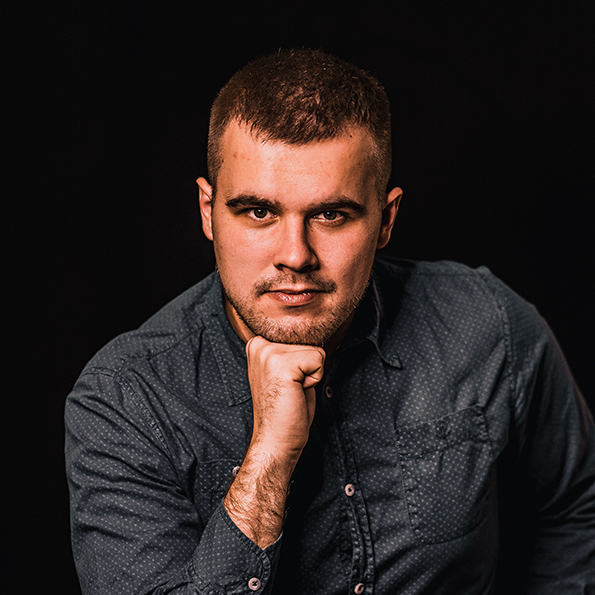
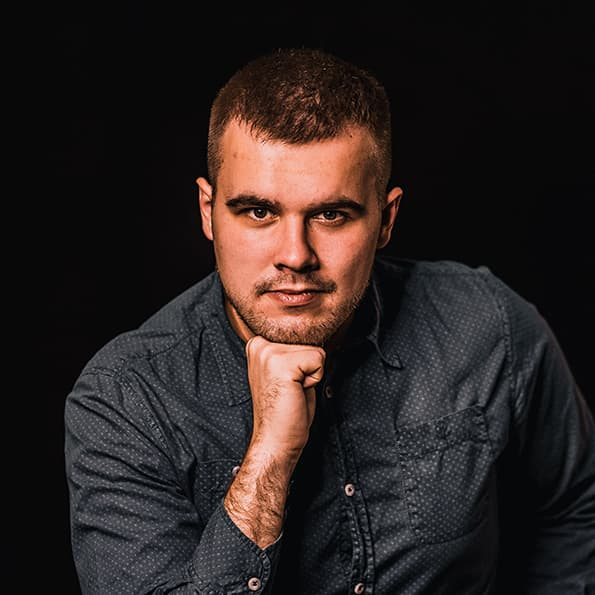
pp

diff --git a/index.html b/index.html
@@ -47,14 +47,14 @@
                <div class="row d_flex">
                   <div class="col-sm-3">
                      <div class="logo">
-                        <a href="index.html"><img src="images/logo.png" /></a>
+                        <a href="index.html"><img src="images/logo.webp" /></a>
                      </div>
                   </div>
                   <div class="col-sm-9">
                      <ul class="email text_align_right">
                         <li><a href="Javascript:void(0)"><i class="fa fa-user" aria-hidden="true"></i></a></li>
                         <li><a href="Javascript:void(0)"><i class="fa fa-search" aria-hidden="true"></i></a></li>
-                        <li> <button class="openbtn" onclick="openNav()"><img src="images/menu_btn.png"></button></li>
+                        <li> <button class="openbtn" onclick="openNav()"><img src="images/menu_btn.webp"></button></li>
                      </ul>
                   </div>
                </div>
@@ -68,7 +68,7 @@
             <div class="row">
                <div class="col-md-12">
                   <div class="club">
-                     <figure><img class="sm_n0" src="images/bbnner.png"> <img class="tes_n0" src="images/banner1.jpg"> </figure>
+                     <figure><img class="sm_n0" src="images/bbnner.webp"> <img class="tes_n0" src="images/banner1.jpg"> </figure>
                      <div class="poa_t">
                         <h1>Sports club</h1>
                         <p>It is a long established fact that a reader will be distracted by the readable content of a</p>
@@ -95,7 +95,7 @@
                               <div class="carousel-caption relative">
                                  <div class="bluid">
                                     <div class="foot_img">
-                                       <figure><img src="images/foot.png" alt="#"/></figure>
+                                       <figure><img src="images/foot.webp" alt="#"/></figure>
                                     </div>
                                     <a class="read_more" href="Javascript:void(0)">Read More </a>
                                  </div>
@@ -119,7 +119,7 @@
                               <div class="carousel-caption relative">
                                  <div class="bluid">
                                     <div class="foot_img">
-                                       <figure><img src="images/foot.png" alt="#"/></figure>
+                                       <figure><img src="images/foot.webp" alt="#"/></figure>
                                     </div>
                                     <a class="read_more" href="Javascript:void(0)">Read More </a>
                                  </div>
@@ -155,7 +155,7 @@
             <div class="row d_flex">
                <div class="col-md-3">
                   <div class="sports_main text_align_center">
-                     <figure><img  src="images/sport1.png" alt="#"/></figure>
+                     <figure><img  src="images/sport1.webp" alt="#"/></figure>
                      <div class="sports_text">
                         <h3>Game 1</h3>
                         <p>vailable, but the majority have suffered alteration in some form, by injected humour, or randomised words which</p>
@@ -165,7 +165,7 @@
                </div>
                <div class="col-md-6">
                   <div class="sports_main text_align_center">
-                     <figure><img class="dorder" src="images/sport2.png" alt="#"/></figure>
+                     <figure><img class="dorder" src="images/sport2.webp" alt="#"/></figure>
                      <div class="sports_text">
                         <h3 class="dark3">Game 2</h3>
                         <p>vailable, but the majority have<br> suffered alteration in some <br>form, by injected humour, or <br> randomised words which</p>
@@ -175,7 +175,7 @@
                </div>
                <div class="col-md-3">
                   <div class="sports_main text_align_center">
-                     <figure><img src="images/sport3.png" alt="#"/></figure>
+                     <figure><img src="images/sport3.webp" alt="#"/></figure>
                      <div class="sports_text">
                         <h3>Game 3</h3>
                         <p>vailable, but the majority have suffered alteration in some form, by injected humour, or randomised words which</p>
@@ -199,9 +199,9 @@
                </div>
                <div class="col-md-12">
                   <div class="about_img">
-                     <figure><img class="img_responsive" src="images/about_img.png" alt="#"/></figure>
+                     <figure><img class="img_responsive" src="images/about_img.webp" alt="#"/></figure>
                      <div class="abo_btn">
-                        <a href="Javascript:void(0)"><img src="images/about_btn.png" alt="#"/></a>
+                        <a href="Javascript:void(0)"><img src="images/about_btn.webp" alt="#"/></a>
                      </div>
                   </div>
                </div>
@@ -335,10 +335,10 @@
                      </ul>
                      <div class="conta text_align_center">
                         <ul>
-                           <li> <a href="Javascript:void(0)"><img src="images/call.png" alt="#"/> Call +01 1234567890
+                           <li> <a href="Javascript:void(0)"><img src="images/call.webp" alt="#"/> Call +01 1234567890
                               </a>
                            </li>
-                           <li> <a href="Javascript:void(0)"><img src="images/mall.png" alt="#"/> demo@gmail.com
+                           <li> <a href="Javascript:void(0)"><img src="images/mall.webp" alt="#"/> demo@gmail.com
                               </a>
                            </li>
                         </ul>

diff --git a/games.html b/games.html
@@ -47,14 +47,14 @@
                <div class="row d_flex">
                   <div class="col-sm-3">
                      <div class="logo">
-                        <a href="index.html"><img src="images/logo.png" /></a>
+                        <a href="index.html"><img src="images/logo.webp" /></a>
                      </div>
                   </div>
                   <div class="col-sm-9">
                      <ul class="email text_align_right">
                         <li><a href="Javascript:void(0)"><i class="fa fa-user" aria-hidden="true"></i></a></li>
                         <li><a href="Javascript:void(0)"><i class="fa fa-search" aria-hidden="true"></i></a></li>
-                        <li> <button class="openbtn" onclick="openNav()"><img src="images/menu_btn.png"></button></li>
+                        <li> <button class="openbtn" onclick="openNav()"><img src="images/menu_btn.webp"></button></li>
                      </ul>
                   </div>
                </div>
@@ -77,7 +77,7 @@
             <div class="row d_flex">
                <div class="col-md-3">
                   <div class="sports_main text_align_center">
-                     <figure><img  src="images/sport1.png" alt="#"/></figure>
+                     <figure><img  src="images/sport1.webp" alt="#"/></figure>
                      <div class="sports_text">
                         <h3>Game 1</h3>
                         <p>vailable, but the majority have suffered alteration in some form, by injected humour, or randomised words which</p>
@@ -87,7 +87,7 @@
                </div>
                <div class="col-md-6">
                   <div class="sports_main text_align_center">
-                     <figure><img class="dorder" src="images/sport2.png" alt="#"/></figure>
+                     <figure><img class="dorder" src="images/sport2.webp" alt="#"/></figure>
                      <div class="sports_text">
                         <h3 class="dark3">Game 2</h3>
                         <p>vailable, but the majority have<br> suffered alteration in some <br>form, by injected humour, or <br> randomised words which</p>
@@ -97,7 +97,7 @@
                </div>
                <div class="col-md-3">
                   <div class="sports_main text_align_center">
-                     <figure><img src="images/sport3.png" alt="#"/></figure>
+                     <figure><img src="images/sport3.webp" alt="#"/></figure>
                      <div class="sports_text">
                         <h3>Game 3</h3>
                         <p>vailable, but the majority have suffered alteration in some form, by injected humour, or randomised words which</p>
@@ -125,10 +125,10 @@
                      </ul>
                      <div class="conta text_align_center">
                         <ul>
-                           <li> <a href="Javascript:void(0)"><img src="images/call.png" alt="#"/> Call +01 1234567890
+                           <li> <a href="Javascript:void(0)"><img src="images/call.webp" alt="#"/> Call +01 1234567890
                               </a>
                            </li>
-                           <li> <a href="Javascript:void(0)"><img src="images/mall.png" alt="#"/> demo@gmail.com
+                           <li> <a href="Javascript:void(0)"><img src="images/mall.webp" alt="#"/> demo@gmail.com
                               </a>
                            </li>
                         </ul>

diff --git a/about.html b/about.html
@@ -47,14 +47,14 @@
                <div class="row d_flex">
                   <div class="col-sm-3">
                      <div class="logo">
-                        <a href="index.html"><img src="images/logo.png" /></a>
+                        <a href="index.html"><img src="images/logo.webp" /></a>
                      </div>
                   </div>
                   <div class="col-sm-9">
                      <ul class="email text_align_right">
                         <li><a href="Javascript:void(0)"><i class="fa fa-user" aria-hidden="true"></i></a></li>
                         <li><a href="Javascript:void(0)"><i class="fa fa-search" aria-hidden="true"></i></a></li>
-                        <li> <button class="openbtn" onclick="openNav()"><img src="images/menu_btn.png"></button></li>
+                        <li> <button class="openbtn" onclick="openNav()"><img src="images/menu_btn.webp"></button></li>
                      </ul>
                   </div>
                </div>
@@ -74,9 +74,9 @@
                </div>
                <div class="col-md-12">
                   <div class="about_img">
-                     <figure><img class="img_responsive" src="images/about_img.png" alt="#"/></figure>
+                     <figure><img class="img_responsive" src="images/about_img.webp" alt="#"/></figure>
                      <div class="abo_btn">
-                        <a href="Javascript:void(0)"><img src="images/about_btn.png" alt="#"/></a>
+                        <a href="Javascript:void(0)"><img src="images/about_btn.webp" alt="#"/></a>
                      </div>
                   </div>
                </div>
@@ -100,10 +100,10 @@
                      </ul>
                      <div class="conta text_align_center">
                         <ul>
-                           <li> <a href="Javascript:void(0)"><img src="images/call.png" alt="#"/> Call +01 1234567890
+                           <li> <a href="Javascript:void(0)"><img src="images/call.webp" alt="#"/> Call +01 1234567890
                               </a>
                            </li>
-                           <li> <a href="Javascript:void(0)"><img src="images/mall.png" alt="#"/> demo@gmail.com
+                           <li> <a href="Javascript:void(0)"><img src="images/mall.webp" alt="#"/> demo@gmail.com
                               </a>
                            </li>
                         </ul>

diff --git a/contact.html b/contact.html
@@ -47,14 +47,14 @@
                <div class="row d_flex">
                   <div class="col-sm-3">
                      <div class="logo">
-                        <a href="index.html"><img src="images/logo.png" /></a>
+                        <a href="index.html"><img src="images/logo.webp" /></a>
                      </div>
                   </div>
                   <div class="col-sm-9">
                      <ul class="email text_align_right">
                         <li><a href="Javascript:void(0)"><i class="fa fa-user" aria-hidden="true"></i></a></li>
                         <li><a href="Javascript:void(0)"><i class="fa fa-search" aria-hidden="true"></i></a></li>
-                        <li> <button class="openbtn" onclick="openNav()"><img src="images/menu_btn.png"></button></li>
+                        <li> <button class="openbtn" onclick="openNav()"><img src="images/menu_btn.webp"></button></li>
                      </ul>
                   </div>
                </div>
@@ -116,10 +116,10 @@
                      </ul>
                      <div class="conta text_align_center">
                         <ul>
-                           <li> <a href="Javascript:void(0)"><img src="images/call.png" alt="#"/> Call +01 1234567890
+                           <li> <a href="Javascript:void(0)"><img src="images/call.webp" alt="#"/> Call +01 1234567890
                               </a>
                            </li>
-                           <li> <a href="Javascript:void(0)"><img src="images/mall.png" alt="#"/> demo@gmail.com
+                           <li> <a href="Javascript:void(0)"><img src="images/mall.webp" alt="#"/> demo@gmail.com
                               </a>
                            </li>
                         </ul>

diff --git a/tranner.html b/tranner.html
@@ -47,14 +47,14 @@
                <div class="row d_flex">
                   <div class="col-sm-3">
                      <div class="logo">
-                        <a href="index.html"><img src="images/logo.png" /></a>
+                        <a href="index.html"><img src="images/logo.webp" /></a>
                      </div>
                   </div>
                   <div class="col-sm-9">
                      <ul class="email text_align_right">
                         <li><a href="Javascript:void(0)"><i class="fa fa-user" aria-hidden="true"></i></a></li>
                         <li><a href="Javascript:void(0)"><i class="fa fa-search" aria-hidden="true"></i></a></li>
-                        <li> <button class="openbtn" onclick="openNav()"><img src="images/menu_btn.png"></button></li>
+                        <li> <button class="openbtn" onclick="openNav()"><img src="images/menu_btn.webp"></button></li>
                      </ul>
                   </div>
                </div>
@@ -167,10 +167,10 @@
                      </ul>
                      <div class="conta text_align_center">
                         <ul>
-                           <li> <a href="Javascript:void(0)"><img src="images/call.png" alt="#"/> Call +01 1234567890
+                           <li> <a href="Javascript:void(0)"><img src="images/call.webp" alt="#"/> Call +01 1234567890
                               </a>
                            </li>
-                           <li> <a href="Javascript:void(0)"><img src="images/mall.png" alt="#"/> demo@gmail.com
+                           <li> <a href="Javascript:void(0)"><img src="images/mall.webp" alt="#"/> demo@gmail.com
                               </a>
                            </li>
                         </ul>
